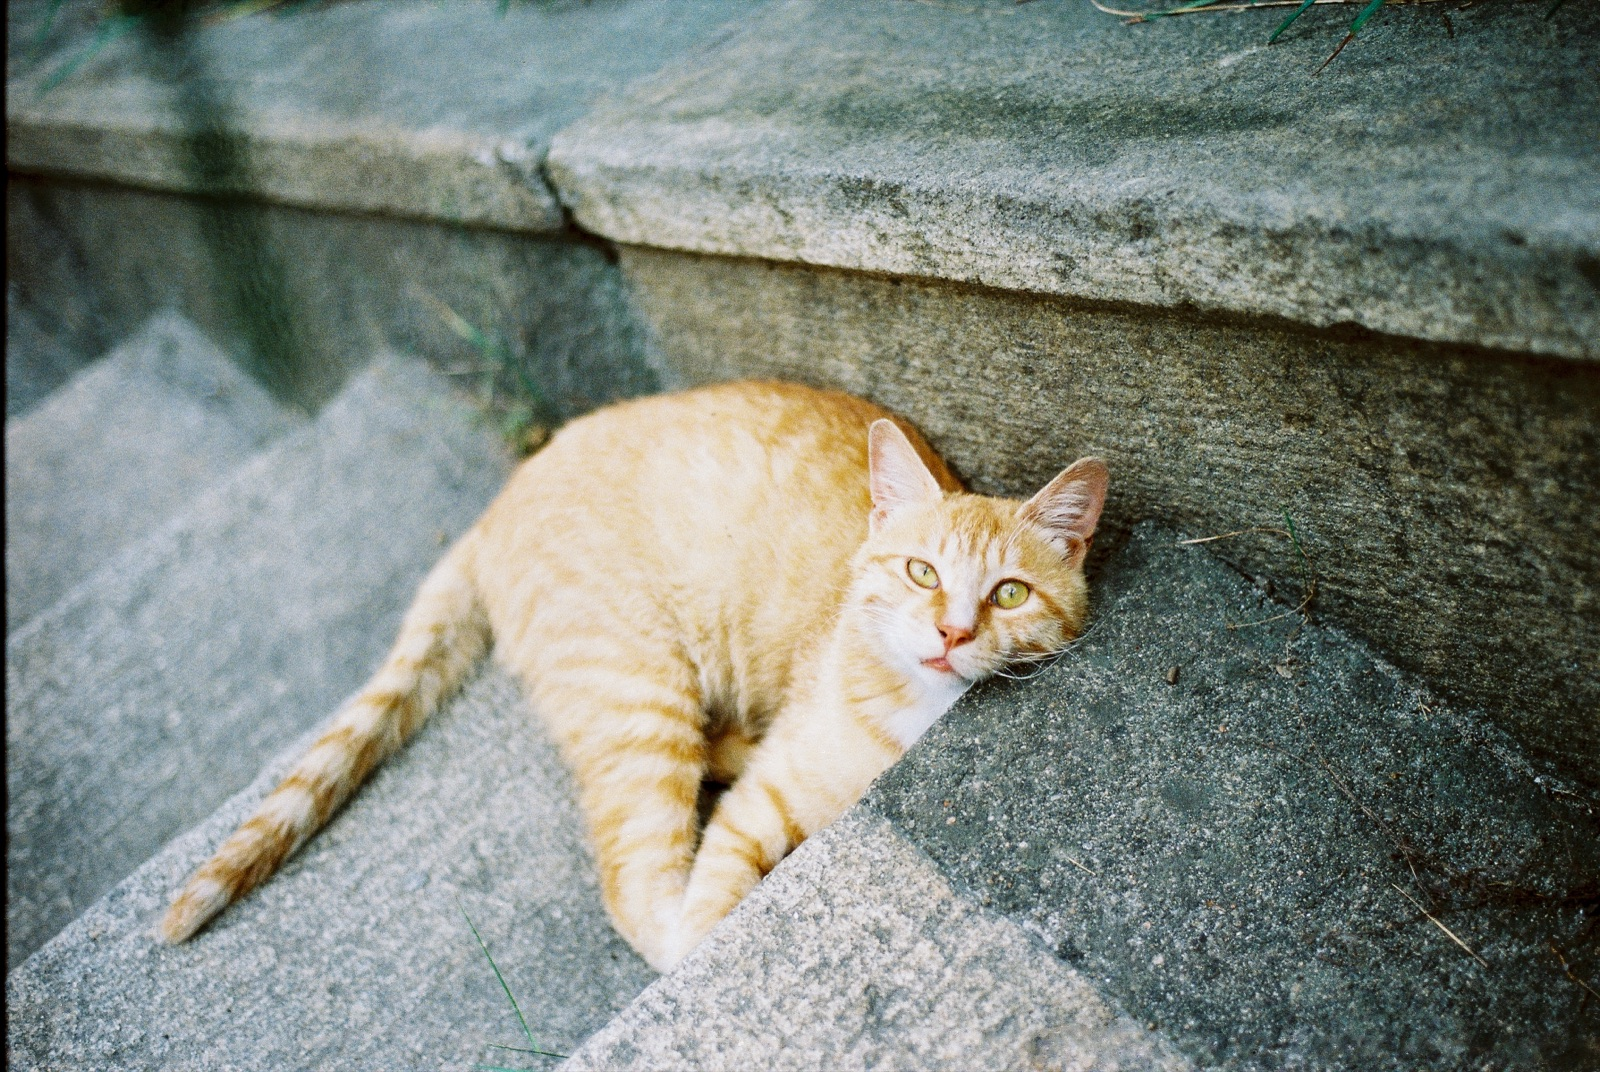
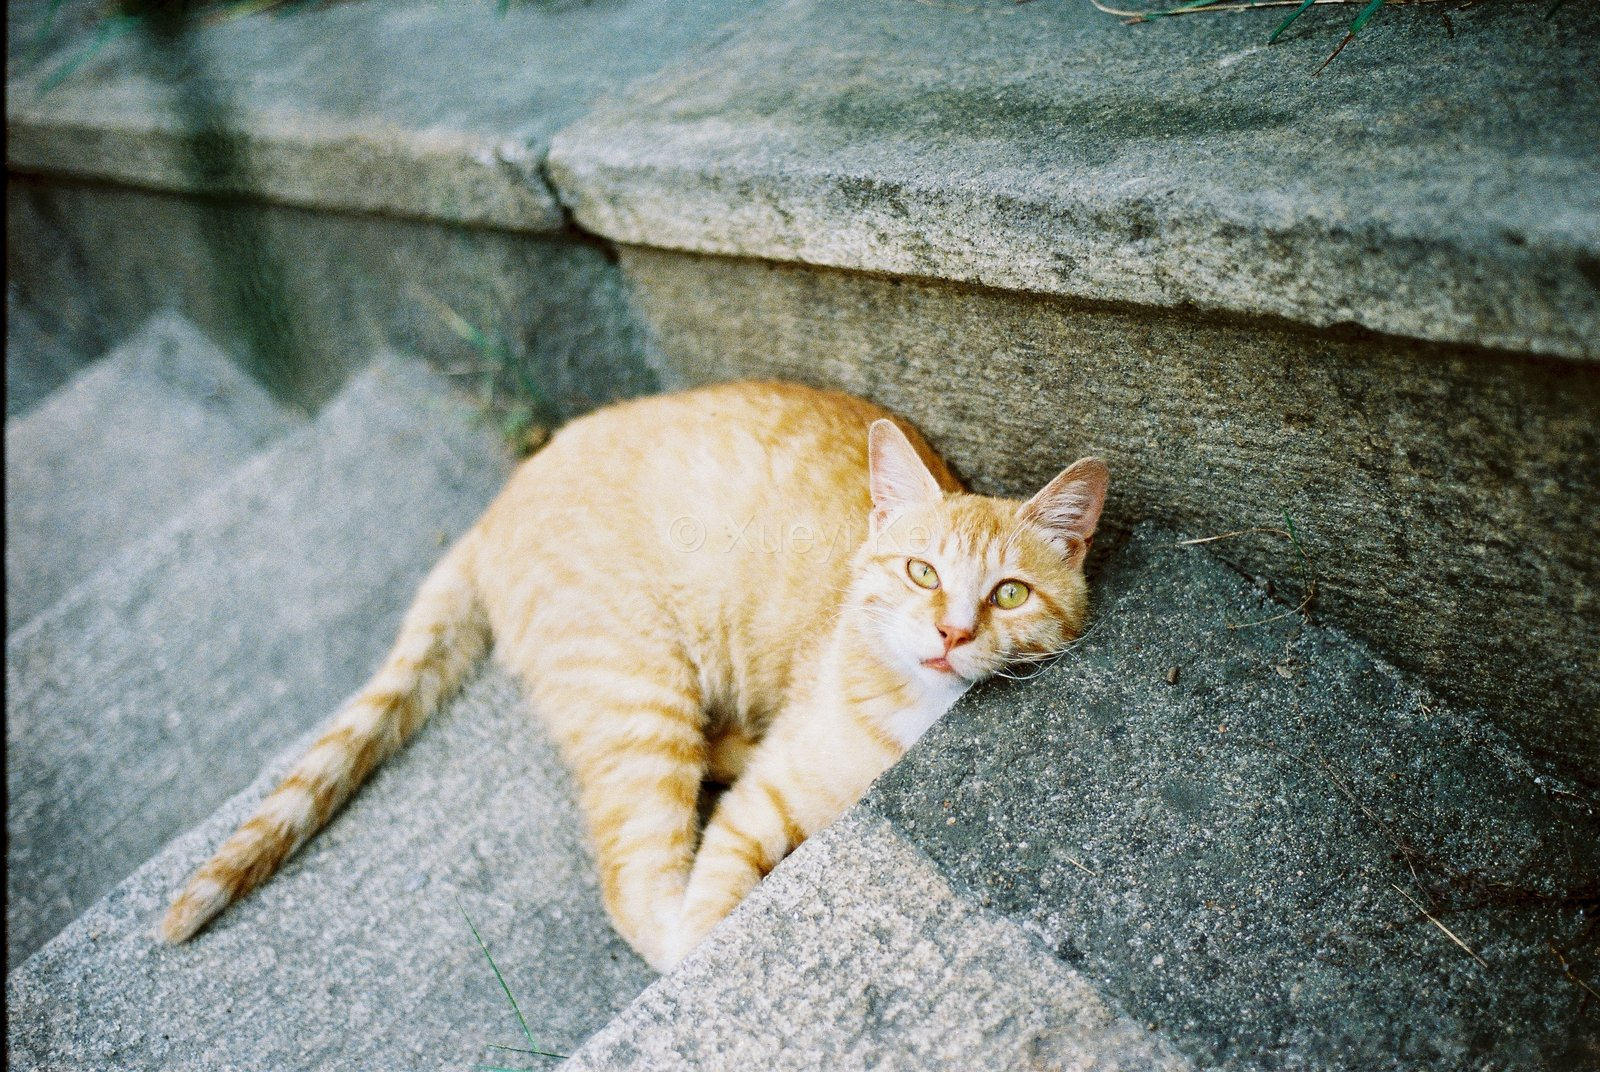
feat: burn watermark into gallery images, add watermark script

diff --git a/scripts/watermark.py b/scripts/watermark.py
@@ -1,0 +1,111 @@
+#!/usr/bin/env python3
+"""
+Burn watermark into gallery images.
+Usage: python3 watermark.py
+
+- Reads from images/gallery_original/ (untouched originals)
+- Writes watermarked + resized images to images/gallery/
+- Watermark: "© Xueyi Ke" centered, semi-transparent white with shadow
+- Max dimension: 1600px, JPEG quality 85
+"""
+
+import os
+from PIL import Image, ImageDraw, ImageFont, ImageFilter
+
+ORIGINAL_DIR = os.path.join(os.path.dirname(__file__), '..', 'images', 'gallery_original')
+OUTPUT_DIR = os.path.join(os.path.dirname(__file__), '..', 'images', 'gallery')
+WATERMARK_TEXT = '© Xueyi Ke'
+MAX_SIZE = 1600
+JPEG_QUALITY = 85
+OPACITY = 40  # 0-255, lower = more subtle
+
+
+def add_watermark(img):
+    """Add centered semi-transparent watermark with shadow."""
+    watermark = Image.new('RGBA', img.size, (0, 0, 0, 0))
+    draw = ImageDraw.Draw(watermark)
+
+    # Scale font size relative to image width
+    font_size = max(16, img.width // 30)
+    try:
+        font = ImageFont.truetype('/System/Library/Fonts/Helvetica.ttc', font_size)
+    except (OSError, IOError):
+        try:
+            font = ImageFont.truetype('/System/Library/Fonts/SFNSMono.ttf', font_size)
+        except (OSError, IOError):
+            font = ImageFont.load_default()
+
+    # Get text bounding box
+    bbox = draw.textbbox((0, 0), WATERMARK_TEXT, font=font)
+    text_w = bbox[2] - bbox[0]
+    text_h = bbox[3] - bbox[1]
+    x = (img.width - text_w) // 2
+    y = (img.height - text_h) // 2
+
+    # Draw shadow
+    draw.text((x + 1, y + 1), WATERMARK_TEXT, font=font, fill=(0, 0, 0, OPACITY // 2))
+    # Draw watermark text
+    draw.text((x, y), WATERMARK_TEXT, font=font, fill=(255, 255, 255, OPACITY))
+
+    # Composite
+    if img.mode != 'RGBA':
+        img = img.convert('RGBA')
+    watermarked = Image.alpha_composite(img, watermark)
+    return watermarked.convert('RGB')
+
+
+def process_image(filename):
+    """Resize and watermark a single image."""
+    src = os.path.join(ORIGINAL_DIR, filename)
+    dst = os.path.join(OUTPUT_DIR, filename)
+
+    img = Image.open(src)
+
+    # Preserve EXIF orientation
+    try:
+        from PIL import ImageOps
+        img = ImageOps.exif_transpose(img)
+    except Exception:
+        pass
+
+    # Resize if larger than MAX_SIZE
+    if max(img.width, img.height) > MAX_SIZE:
+        img.thumbnail((MAX_SIZE, MAX_SIZE), Image.LANCZOS)
+
+    # Add watermark
+    img = add_watermark(img)
+
+    # Determine output format
+    ext = os.path.splitext(filename)[1].lower()
+    if ext in ('.jpg', '.jpeg'):
+        img.save(dst, 'JPEG', quality=JPEG_QUALITY, optimize=True)
+    elif ext == '.png':
+        img.save(dst, 'PNG', optimize=True)
+    else:
+        img.save(dst, 'JPEG', quality=JPEG_QUALITY, optimize=True)
+
+    src_size = os.path.getsize(src) / 1024
+    dst_size = os.path.getsize(dst) / 1024
+    print(f'  {filename}: {src_size:.0f}KB → {dst_size:.0f}KB')
+
+
+def main():
+    if not os.path.exists(ORIGINAL_DIR):
+        print(f'Error: {ORIGINAL_DIR} not found. Put originals there first.')
+        return
+
+    os.makedirs(OUTPUT_DIR, exist_ok=True)
+
+    files = [f for f in os.listdir(ORIGINAL_DIR)
+             if f.lower().endswith(('.jpg', '.jpeg', '.png'))]
+
+    print(f'Processing {len(files)} images...\n')
+
+    for f in sorted(files):
+        process_image(f)
+
+    print(f'\nDone! Watermarked images saved to {OUTPUT_DIR}')
+
+
+if __name__ == '__main__':
+    main()
